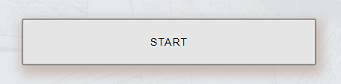
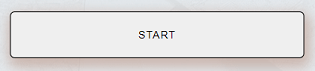
update README.md

diff --git a/assets/js/main.js b/assets/js/main.js
@@ -1,7 +1,6 @@
 // list of variables
 const logoReload = document.getElementById('logo');
 
-const gameArea = document.getElementById('game-area');
 const containerDiv = document.getElementById('container');
 
 const startButton = document.getElementById('start-btn');
@@ -79,7 +78,7 @@ function reloadGame() {
     window.location.assign('index.html');
 }
 
-/* start the game */
+/* start the quiz */
 startGame = () => {
     questionCounter = 0;
     score = 0;
@@ -87,7 +86,6 @@ startGame = () => {
     getNewQuestion();
     containerDiv.classList.remove('hide');
     startButton.classList.add('hide');
-    // gameArea.style.top = "65%";
     if (howToButton.style.display !== "block") {
         howToButton.style.display = "none";
         howToDiv.style.display = "none";
@@ -103,7 +101,7 @@ startGame = () => {
     }
 };
 
-/* event listener set to the start button that runs the game */
+/* event listener set to the start button that runs the quiz */
 startButton.addEventListener("click", startGame);
 
 /* generates next question, if max questions reached, redirects to end.html */
@@ -180,13 +178,11 @@ highscoresButton.onclick = function () {
         startButton.classList.add('hide');
         howToButton.classList.add('hide');
         contactButton.classList.add('hide');
-        gameArea.style.top = "55%";
     } else {
         highscoresDiv.style.display = "none";
         startButton.classList.remove('hide');
         howToButton.classList.remove('hide');
         contactButton.classList.remove('hide');
-        gameArea.style.top = "60%";
     }
 };
 
@@ -197,13 +193,11 @@ howToButton.onclick = function () {
         startButton.classList.add('hide');
         contactButton.classList.add('hide');
         highscoresButton.classList.add('hide');
-        gameArea.style.top = "55%";
     } else {
         howToDiv.style.display = "none";
         startButton.classList.remove('hide');
         contactButton.classList.remove('hide');
         highscoresButton.classList.remove('hide');
-        gameArea.style.top = "60%";
     }
 };
 
@@ -214,12 +208,10 @@ contactButton.onclick = function () {
         startButton.classList.add('hide');
         howToButton.classList.add('hide');
         highscoresButton.classList.add('hide');
-        gameArea.style.top = "55%";
     } else {
         contactDiv.style.display = "none";
         startButton.classList.remove('hide');
         howToButton.classList.remove('hide');
         highscoresButton.classList.remove('hide');
-        gameArea.style.top = "60%";
     }
 };

diff --git a/assets/css/style.css b/assets/css/style.css
@@ -15,6 +15,8 @@ body {
 
 .heading {
     color: rgba(230,236,240);
+    overflow: visible;
+    position: relative;
 }
 
 h1 {
@@ -28,7 +30,7 @@ h1 {
     position: absolute;
     left: 20%;
     right: 20%;
-    top: 10%;
+    top: 22%;
     background: rgb(0,0,0);
 }
 
@@ -36,6 +38,13 @@ h1 {
     background: rgb(187 148 133 / 60%);
     padding: 0 1rem;
     text-transform: uppercase;
+}
+
+.span-how-to {
+    background: rgb(255,210,0);
+    padding: 0 1rem;
+    text-transform: uppercase;
+    font-weight: bold;
 }
 
 h2 {
@@ -91,16 +100,13 @@ h2 {
     background-color: rgba(230,236,240, .95);
     border-radius: 6px;
     box-sizing: border-box;
-    width: 85%;
+    width: 90%;
     max-width: 830px;
-    margin-top: 40px;
     margin-left: auto;
     margin-right: auto;
     padding: 1rem;
-    position: absolute;
-    top: 60%;
-    right: 50%;
-    transform: translate(50%,-50%);
+    position: relative;
+    margin-bottom: 2%;
 }
 
 .container {
@@ -121,7 +127,7 @@ h2 {
     min-width: 65%;
     text-transform: uppercase;
     text-align: center;
-    border: 1px solid;
+    border: 1px solid black;
 }
 
 .choice-container:hover {
@@ -143,6 +149,7 @@ h2 {
 /* buttons */
 
 .btn {
+    background-color: rgb(239, 239, 239);
     width: 380px;
     max-width: 100%;
     height: 60px;
@@ -150,6 +157,8 @@ h2 {
     letter-spacing: 1.2px;
     margin: 0.8rem 0;
     text-align: center;
+    border-radius: 6px;
+    border: 1px solid black;
 }
 
 .btn:hover {
@@ -297,7 +306,6 @@ input::placeholder {
     }
     #span-heading {
         font-size: 1.4rem;
-        top: 8%;
     }
     h2 {
         font-size: 1.4rem;
@@ -307,9 +315,6 @@ input::placeholder {
         font-size: 1.4rem;
         margin-bottom: 1.8rem;
     }
-    .game-area {
-        top: 65%;
-    }
     .choice-container {
         width: 90%;
     }
@@ -317,13 +322,13 @@ input::placeholder {
         font-size: 1.6rem;
     }
     .contact-list {
-        letter-spacing: 1.5rem;
+        letter-spacing: 0;
         padding: 0;
         display: block;
     }
     .contact-list i {
-        font-size: 4rem;
-        margin: 1rem;
+        font-size: 3rem;
+        margin: 0.5rem;
     }
     .contact-list i:hover {
         font-size: 4.2rem;

diff --git a/end.html b/end.html
@@ -20,8 +20,8 @@
                 <h2 id="end-text">Congratulations!</h2>
                 <h2 id="finalScore">0 miles travelled</h2>
                 <form class="end-form-container">
-                    <input aria-label="input for player name" type="text" name="name" id="username" placeholder="Enter your name">
-                    <button aria-label="button saves player score" class="btn" id="saveScoreBtn" type="submit" onclick="saveHighScore(event)" disabled>Save</button>
+                    <input aria-label="input for user name" type="text" name="name" id="username" placeholder="Enter your name" maxlength="12">
+                    <button aria-label="button saves user score" class="btn" id="saveScoreBtn" type="submit" onclick="saveHighScore(event)" disabled>Save</button>
                 </form>
                 <button aria-label="button goes to quiz main menu" data-type="home" id="home-btn" class="home-btn btn">Home</button>
             </div>

diff --git a/index.html b/index.html
@@ -57,9 +57,11 @@
             <button aria-label="button shows how to play quiz" data-type="how" id="how-to-btn" class="how-to-btn btn">How to Play</button>
             <div id="how-container" class="how-container hide">
                 <div id="howTo">
-                    <p>A simple quiz format.</p>
+                    <p>You have 10 questions to travel the world.</p>
                     <p>Click the <strong>START</strong> button and answer the questions.</p>
-                    <p>It takes 25000 miles to travel the world. Let's see if you can!</p>
+                    <p>Every correct answer is another <span class="span-how-to">2500 miles travelled.</span></p>
+                    <p>It takes <span class="span-how-to">25000 miles</span> to travel the world.</p>
+                    <p>See if you can travel to the top of the <span class="span-how-to">High Scores list!</span></p>
                 </div>
             </div>
 

diff --git a/assets/js/end.js b/assets/js/end.js
@@ -16,8 +16,12 @@ const highScores = JSON.parse(localStorage.getItem('highScores')) || [];
 // maximum number of saved usernames and scores listed on High Scores list
 const MAX_HIGH_SCORES = 5;
 
-// display user's final score on end screen
-finalScore.innerHTML = `<span id="span-score"> ${mostRecentScore} miles travelled</span>`;
+// display user's final score and message on end screen
+if (mostRecentScore == 25000) {
+    finalScore.innerHTML = `<span id="span-score"> ${mostRecentScore} miles travelled!<br><br>You successfully travelled the world!</span>`;
+  } else {
+    finalScore.innerHTML = `<span id="span-score"> ${mostRecentScore} miles travelled</span>`;
+};
 
 // event listener added to input field, which then enables Save button
 username.addEventListener('keyup', () => {

diff --git a/README.md b/README.md
@@ -8,7 +8,7 @@ This is the first interactive quiz the company has launched, announcing themselv
 
 ### Quiz premis and rules:
 
-A classic geography quiz, suitable to single or multiple players of all ages. The Globe Trotter Quiz is a multiple-choice quiz where the user is presented with 10 questions, each correct answer worth 2500 miles. The goal? To answer 10 correct answers totalling a whopping 25,000 miles - about the same distance it is tofly around the globe! See if you can travel to the top of the High Scores list!
+A classic geography quiz, suitable to single or multiple players of all ages. The Globe Trotter Quiz is a multiple-choice quiz where the user is presented with 10 questions, each correct answer worth 2500 miles. The goal? To answer 10 correct answers totalling a whopping 25,000 miles - about the same distance it is to fly around the world! See if you can travel to the top of the High Scores list!
 
 The quiz will clearly display information for new and returning customers including the creators contact information via social media links. The quiz is fully responsible on a range of devices - from hand-held devices to larger screens such as monitors or even TVs. This is to ensure that as many people as possible can play the quiz and enjoy this journey.
 
@@ -152,14 +152,13 @@ Wireframes were drawn using [Balsamiq](https://balsamiq.com/) at the beginning o
 
 <img src="assets/readme-images/maps.jpg">
 
-- Logo
+Logo
 
 <img src="assets/images/logo.png">
 
-- Plane
+Plane
 
 <img src="assets/images/plane.png">
-
 
 #### Font
 -  The Globe Trotter Quiz uses the Poppins font. It provides that clean, clear style without compromising on readability - a vital design feature for any quiz. This is available for free via [Google Fonts](https://fonts.google.com/) and imported via CSS. Sans Serif is used as a secondary option in case of failure to import  the font into the quiz correctly. Poppins is a clean font used frequently in designs, so it is both attractive and appropriate.
@@ -215,9 +214,13 @@ Each icon for the social media links turn gold when the user hovers over them to
 <img src="assets/readme-images/contact-container.png">
 <img src="assets/readme-images/contact-container-hover.png">
 
+The social media links on smaller screens (below 481px - such as mobile phones) have a more mobile-friendly layout.
+
+<img src="assets/readme-images/mobile-social-links.jpg">
+
 #### - High Scores
 
-<img src="assets/readme-images/highscore-container.png">
+<img src="assets/readme-images/highscores-container.png">
 
 #### Buttons
 
@@ -244,13 +247,13 @@ Each icon for the social media links turn gold when the user hovers over them to
 
 #### - Correct Answer Button
 
-- gold (rgb(255,210,0)) indicates a correct answer
+- Gold (rgb(255,210,0)) indicates a correct answer.
 
 <img src="assets/readme-images/button-correct.png">
 
 #### - Incorrect Answer Button
 
-- red(rgb(255,0,0)) indicates an incorrect answer
+- Red (rgb(255,0,0)) indicates an incorrect answer.
 
 <img src="assets/readme-images/button-incorrect.png">
 
@@ -310,14 +313,17 @@ The W3C Markup Validator, W3C CSS Validator and JSHint tools were used to valida
 -   [W3C Markup Validator](https://validator.w3.org/#validate_by_input)
 
 index.html
+
 <img src="assets/readme-images/validator.png">
 
 end.html
+
 <img src="assets/readme-images/validator2.png">
 
 -   [W3C CSS Validator](https://jigsaw.w3.org/css-validator/#validate_by_input)
 
 style.css
+
 <img src="assets/readme-images/jigsaw.png">
 
 -   The Warnings(1), also seen on the above screenshot, references the Google imported style sheet, and that it won't check that.
@@ -326,10 +332,12 @@ style.css
 
 -   [JSHint](https://jshint.com/) 
 
-index.js
+main.js
+
 <img src="assets/readme-images/jshint.png">
 
 end.js
+
 <img src="assets/readme-images/jshint2.png">
 
 ## Testing Original User Stories
@@ -396,7 +404,11 @@ All of the following tests were repeated multiple times to ensure a fair test. T
 -   Console.log() function was used for JavaScript code development.
 -   All interactive elements of the quiz were tested. Button functions, clicking, hiding/showing content, user input, links and general flow of quiz. Bugs were fixed as they arose.
 -   Testing that the score updated correctly, incrementing on correct answers only and progressBar progression to reflect this. The same process was done for incorrect answers and various combinations of correct and incorrect answers and users input. The final score was also checked against the in-game score for accuracy and again when submitting to the High Scores area.
--   The quiz was tested on Google Chrome, Mozilla Firefox, Microsoft Edge and Opera browsers and ran efficiently and consistently on each one. The quiz looked and operated as intended.
+-   The quiz was tested on Google Chrome, Mozilla Firefox, Microsoft Edge and Opera browsers and ran efficiently on each one. There were slight stylistic differences when testing between browsers, but these were resolved afterwards. See below for an example when testing on the Opera browser:
+<img src="assets/readme-images/opera-test.png">
+To resolve this, the background-colour was specified in the style.css file, instead of allowing the browsers default styling/button colours decide. This encouraged further testing and ensuring that all important style factors were specified.
+
+
 -   The quiz was viewed on a variety of devices such as Desktop, Laptop, iPad & iPhoneX.
 -   Feedback from friends and family, testing the quiz with no prior instruction or expectations. Adjustments were made if necessary to satisfy the [User Targets](#as-a-new-user).
 
@@ -405,20 +417,29 @@ Bug fixes were predominantly completed in real-time as soon as any issues arose.
 
 -   As seen from the style.css file, there is a lot of custom CSS. Media queries were used at different breakpoints - although time consuming, it was vital to invest time into this to ensure the quiz was functioning correctly on various displays to ensure a major [User Targets](#as-a-new-user) was met. Some JavaScript tweaks were also implemented to alter the class width at different stages of the quiz e.g. the main menu, quiz itself or the end.
 
--   The main containers (see style.css classes .game-area and .container ) would either overlap or completely hide the quiz title and logo. The Globe Trotter Quiz title and logo should be on display at all times no matter what section of the quiz the user was viewing, so obviously this bug was very undesirable. This was bug was fixed in a few ways:
-    - media queries, as explained above.
-    - through adding a margin-top to push the container down and clear from the title and logo.
-    - custom JavaScript code to alter specific classes.
+-   Placed a background-colour behind the score for readability purposes as a Lighthouse test had brough up contrast issues between the gold text colour and the lighter background.
 
 -   Added rel-"noopener" to external links opening in new tabs for security purposes.
 
 ### Known Bugs
 
--   The background image (maps.jpg) repeats slightly towards the very bottom of the Surface Pro 7 (912px x 1368px) device.
+-   The background image (maps.jpg) repeats slightly towards the very bottom of the Surface Pro 7 (912px x 1368px) device. It can also do this on larger TVs or wide-display devices such as tablets.
+
+### Future Updates
+
+There are many planned updates arranged for the Globe Trotter Quiz that include but are not limited to:
+
+-   Introduction of difficulty level choices i.e. Easy, Normal, Hard.
+-   Introduction of images, linked to the questions.
+-   Sound effects and music.
+-   More questions.
+-   Theme/colour palette toggle.
+-   Timer to add more difficulty.
 
 ## Deployment
 
 ### GitHub Pages
+The following instructions are taken from Code Institute's [README.md template](https://github.com/Code-Institute-Solutions/SampleREADME/blob/master/README.md)
 
 The project was deployed to GitHub Pages using the following steps...
 
@@ -500,9 +521,3 @@ Click [Here](https://help.github.com/en/github/creating-cloning-and-archiving-re
 -   Tutor support at Code Institute.
 
 -   codes whatever website for googling errors/help.
-
-
-
-
-
-where to put future upgrades to game? difficulty level, pictures, music/sound effects, different themes, accessibility via colour change theme on/off
